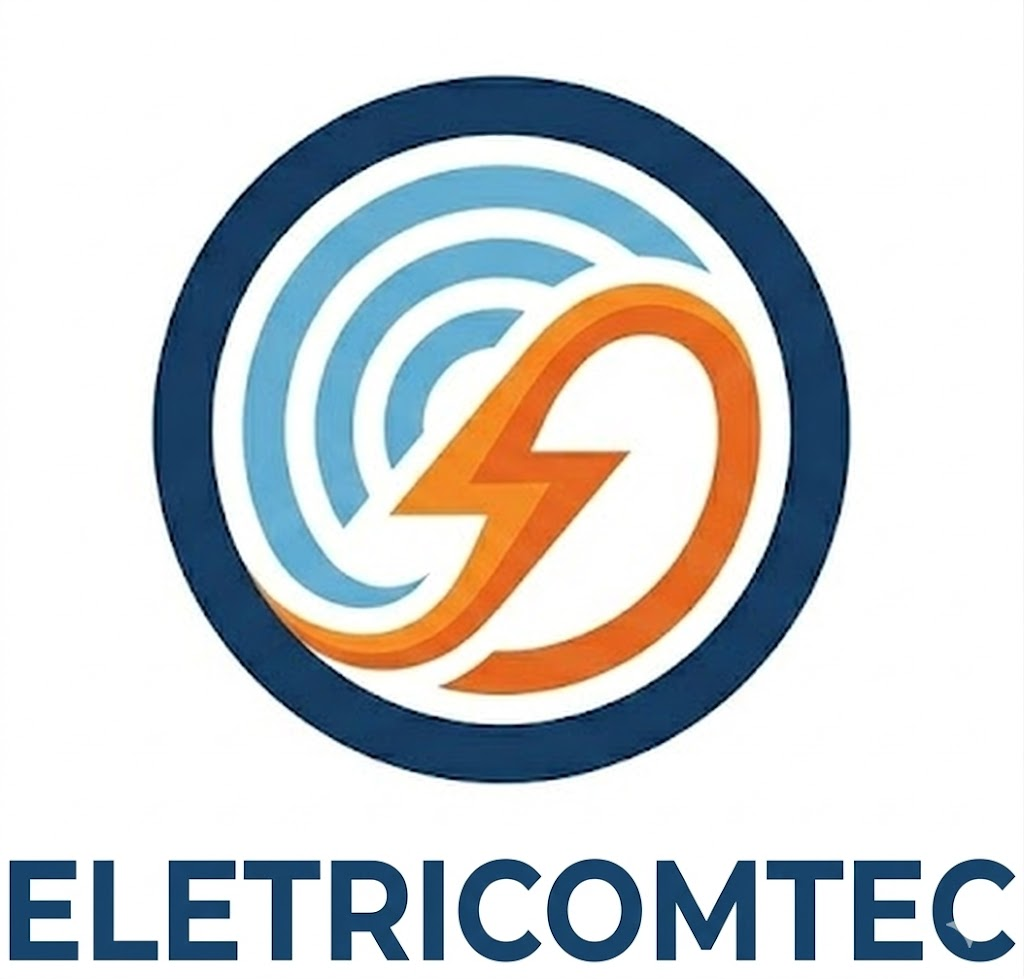
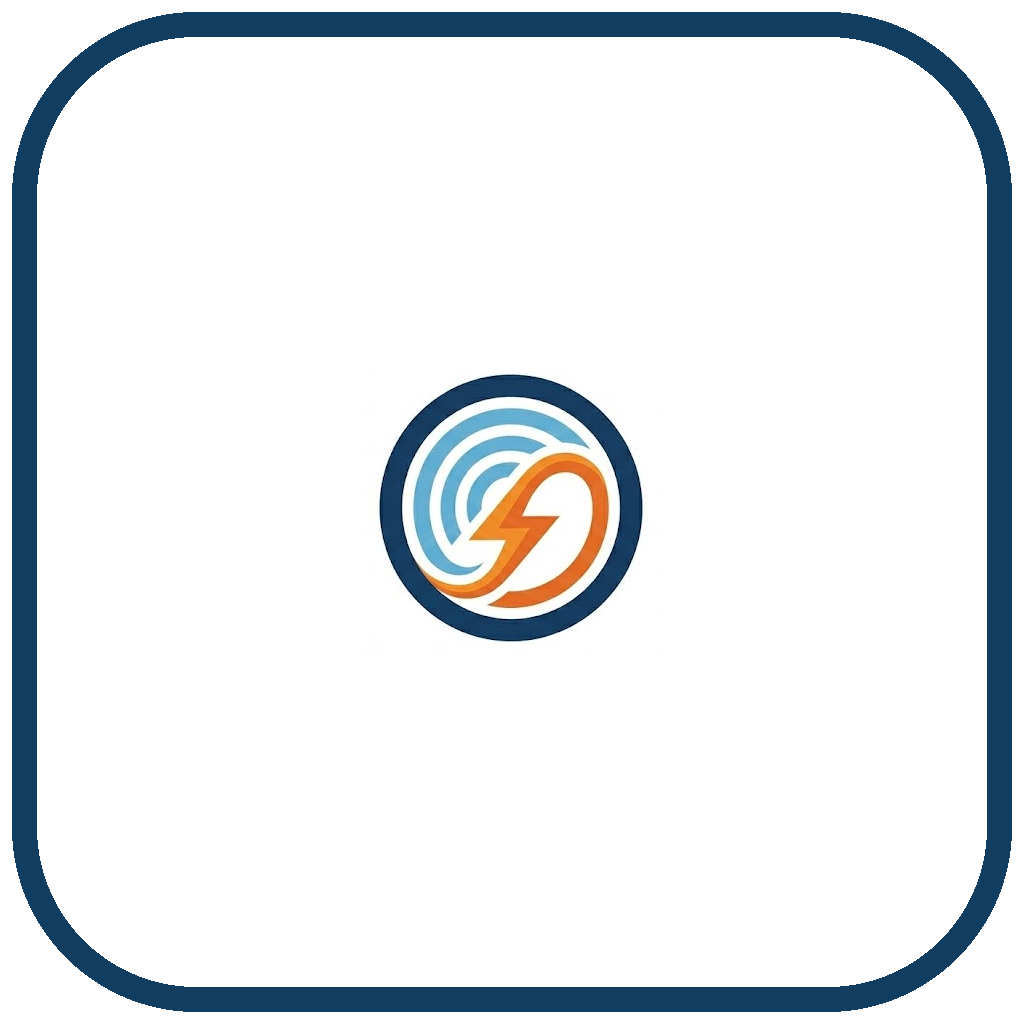
chore: bump version to 1.3.1 (versionCode 7)
- APK icon: icon_app_centralizado_1024.png (Play Store + adaptive)
- Login screen: logo icon.png no lugar do Ionicons flash
- assets/logo-icon.png mantido para login + sobre

diff --git a/app/ativar.tsx b/app/ativar.tsx
@@ -1,7 +1,7 @@
 import { useState, useEffect } from 'react'
 import {
   View, Text, TextInput, TouchableOpacity, StyleSheet,
-  KeyboardAvoidingView, Platform, ScrollView, Alert, ActivityIndicator,
+  KeyboardAvoidingView, Platform, ScrollView, Alert, ActivityIndicator, Image,
 } from 'react-native'
 import { router } from 'expo-router'
 import Constants from 'expo-constants'
@@ -112,7 +112,7 @@ export default function AtivarScreen() {
     <KeyboardAvoidingView style={s.flex} behavior={Platform.OS === 'ios' ? 'padding' : 'height'}>
       <ScrollView contentContainerStyle={[s.container, { paddingTop: insets.top + 24 }]} keyboardShouldPersistTaps="handled">
         <View style={s.logoBox}>
-          <Ionicons name="flash" size={56} color={COLORS.primary} accessible={false} />
+          <Image source={require('../assets/logo-icon.png')} style={s.logoImg} resizeMode="contain" accessibilityRole="image" accessibilityLabel="Logo Elétrica NBR" />
           <Text style={s.logoNome}>Elétrica NBR</Text>
           <Text style={s.badge}>PRO</Text>
           <Text style={s.version}>v{APP_VERSION}</Text>
@@ -193,6 +193,7 @@ const s = StyleSheet.create({
   flex: { flex: 1, backgroundColor: COLORS.bg },
   container: { flexGrow: 1, padding: 24 },
   logoBox: { alignItems: 'center', marginBottom: 32 },
+  logoImg: { width: 96, height: 96, marginBottom: 8 },
   logoNome: { fontSize: FONTS['2xl'], fontWeight: '800', color: COLORS.text, marginTop: 8 },
   badge: {
     marginTop: 8, backgroundColor: COLORS.primaryLight, color: COLORS.primaryDark,